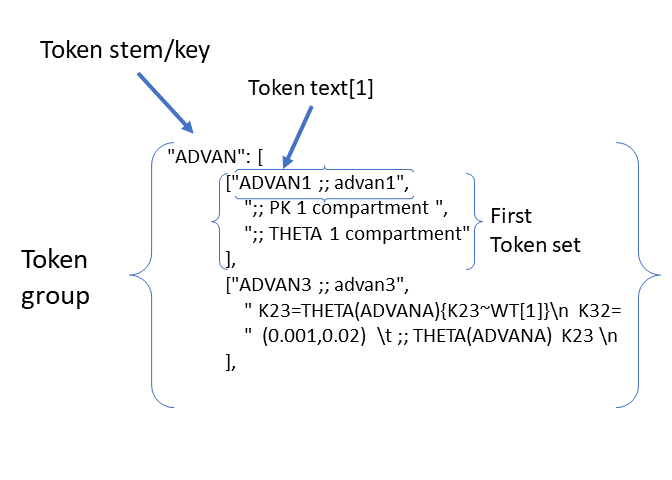
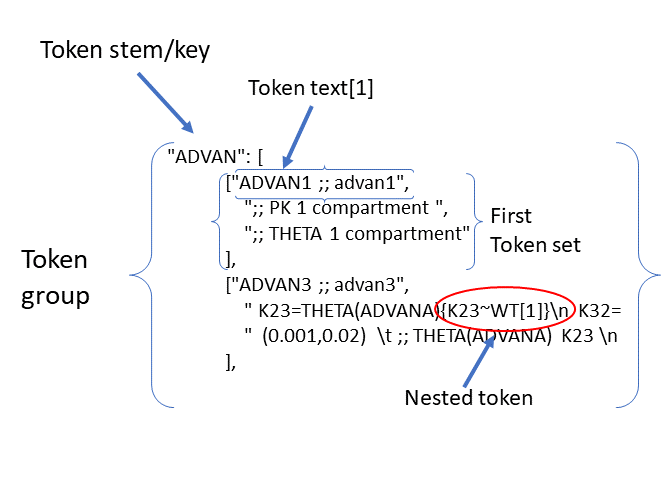
Doc 23Jun

diff --git a/src/main.py b/src/main.py
@@ -23,8 +23,8 @@ from darwin.options import options
 
 print("\n\n\n\n Example 1, Trivial Exhaustive\n\n\n")
 
-final = run_search("C:\\fda\\pyDarwin\\examples\\Example1\\Example1_template.txt",
-                   "C:\\fda\\pyDarwin\\examples\\Example1\\Example1_tokens.json",
+final = run_search("C:\\fda\\thetasort\\template.txt",
+                   "C:\\fda\\thetasort\\tokens.json",
                    "C:\\fda\\pyDarwin\\examples\\Example1\\Example1_options.json")
  
 with open(os.path.join(options.home_dir, "finalModel.mod"), "w") as final_control:

diff --git a/docs/PKModel1.rst b/docs/PKModel1.rst
@@ -3,15 +3,70 @@
 .. _startpk1:
 
 PK Model 1, trivial exhaustive search
-==============================================
+======================================
+
 This first model is quite simple, the search space consistes of 6 dimensions, each with 2 options. Thus, the total number of candiate models is 
 2^6 = 64 models. As the search space if very small, we'll search by exhaustive search. 
 
+First step:
+
+As is the usual practise in POPPK model selection, the first step will be exploratory data analysis. This serves at least two purposes: To validate the data set 
+and to generate initial hypotheses. We will however, for the purpose of this tutorial, skip this step and assume that we have a "correct" data set and list of 
+hypotheses to be tests. 
+
+The next step for ML model selection is to get a simple model running. The control file for this simple model is given below:
+
+::
+
+    $PROBLEM    2 compartment fitting
+    $INPUT       ID TIME AMT DV WTKG GENDER AGE DROP
+    $DATA      ..\..\datalarge.csv IGNORE=@
+            
+    $SUBROUTINE ADVAN2
+    $ABBR DERIV2=NO
+    $PK      
+    CWTKG = WTKG/70  ;; CENTERED ON ONE 
+    CAGE = AGE/40 
+    TVV2=THETA(2) 
+    V2=TVV2*EXP(ETA(2)) 
+    TVCL= THETA(1)  
+    CL=TVCL*EXP(ETA(1)) 
+    K=CL/V2  
+    TVKA=THETA(3) 
+    KA=TVKA   
+    S2 	= V2/1000  
+    $ERROR     
+    REP = IREP      
+    IPRED =F  
+    IOBS = F*EXP(EPS(1))+EPS(2)
+    Y=IOBS
+    $THETA  ;; must be one THETA per line.
+    (0.001,100)	; THETA(1) CL UNITS =  L/HR
+    (0.001,500) 	; THETA(2) V  UNITS = L
+    (0.001,2) 	; THETA(3) KA UNITS = 1/HR  
+    
+    
+    $OMEGA   	; must be one ETA/line
+    0.2  		; ETA(1) CLEARANCE 
+    0.2  		; ETA(2) VOLUME 
+    
+    $SIGMA   
+    (0.1)
+    (1)
+
+    $EST METHOD=COND INTER MAX = 9999 MSFO=MSF1 
+    $COV UNCOND PRINT=E
+    
+
+
+This text will serve as the starting point for developing the template file
+Note that the relative path to the data file is up two folders. When pyDarwin runs models, it does not copy the data file to the run directory. Rather, 
+typically the data file is in the home directory, and the models are run in home directory/generation/model. Therefore, the relative path to the run directory will 
+be up two levels.
+
 The Template file
 ~~~~~~~~~~~~~~~~~~~~~
-
-Example 1 template file :download:`template file <../examples/Example1/Example1_template.txt>`
-Example 1 searchs a 6 dimensional space. The dimensions corresponds to :ref:`token group <token group>`. 
+The initial simple model can then be editted by adding tokens. This first example will include covariates, residual error and one structural feature. 
 Each token group is identified by a :ref:`token stem <token stem>`, e.g. "V2~WT" for the dimension of the 
 relationship between weight a volume of distribution. Each token group includes 
 2 or more :ref:`token set <token set>`, one for each option in the that dimension, These dimensions are:
@@ -23,7 +78,74 @@ relationship between weight a volume of distribution. Each token group includes
 5. Presence of an absorption lag time - ALAG1 ("ALAG") - Present or not
 6. Residual error model ("RESERR") - additive or combined additive and proportional
 
-Each token set in turn will include (in this case) two :ref:`token key-text pairs<token key-text pair>` (analagous to key-value pairs 
+Covariate effects
+------------------
+
+For the effect of Weight on Volume, we've chosen the :ref:`token stem<token stem>` of "V2~WT". Two tokens will be required for this :ref:`token set<token set>`. The first will be 
+adding the relationship to the definition of TVV2 in the $PK block and the 2nd will be providing an initial estimate in the $THETA block for the estimated 
+THETA. Note that the index for THETA for this feature cannot be defined until the model is constructed. Only then can the number and sequence of the added THETAs be 
+determined. In the token set THETAs will be indexed with text, e.g., THETA(V2~WT). As there will be two tokens in the token set, the first have and index of 1
+and the 2nd an index of 2:
+
+::
+
+     {V2~WT[1]}
+     and
+     {V2~WT[2]} 
+    
+
+note the curly braces, these are required for tokens in the template file. The record in the $PK will have the token appended to it, resulting this text:
+
+
+::
+
+    TVV2=THETA(2){V2~WT[1]}
+    
+Two options for the text to be substituted for {V2~WT[1]} will 
+be defined:
+
+1. ""
+2. "\*CWTKG**THETA(V2~WT)"
+
+The first will have no text in that record, resulting in
+
+::
+
+    TVV2=THETA(2)
+
+
+and the 2nd text being substituted will result in
+
+::
+
+    TVV2=THETA(2)*CWTKG**THETA(V2~WT)
+
+
+The 2nd token for the initial estimate for THETA(V2~WT) wil be similar. The token text options will be:
+
+1. ""
+2. "  (-4,0.8,4) \\t; THETA(V2~WT) POWER volume ~WT "
+
+
+The resulting $THETA block for this initial feature will be:
+
+::
+
+    $THETA  ;; must be one THETA per line.
+    (0.001,100) ; THETA(1) CL UNITS =  L/HR
+    (0.001,500) ; THETA(2) V  UNITS = L
+    (0.001,2)   ; THETA(3) KA UNITS = 1/HR
+
+    {V2~WT[2]}    
+
+Note the use of the escape syntax, "\\t" for a tab. Newlines will be coded simlarly as "\\n". NONMEM comments (text after ";") are permitted. However, the 
+user must be aware of the impact that comments in token text may have on any code that follows. This $THETA block has 3 fixed THETA initial estimates - THETA(1), 
+THETA(2) and THETA(3). These will appear in all control files in the search. These fixed initial estimates are then followed by searched initial estimates. Searched 
+initial estimates may or may not appear, depending on the model specification (:ref:`phenotype<phenotype>`). Searched initial estimates must be placed after all 
+fixed initial estimates. Each initial estimate must be on a separate line and must be surrounded by parentheses. The standard combinations of (lower, initial,upper) 
+are all supported. 
+
+Tokens sets for each feature to be searched will be defined as these :ref:`token key-text pairs<token key-text pair>` (analagous to key-value pairs 
 in JSON, but only text values are permitted)
 
 Each of these dimensions has two options. Therefore the total number of candidate models 
@@ -36,9 +158,21 @@ example, if ALAG1 is to be used in the $PK block, a corresponding initial estima
 this parameter must be provided in the $THETA block. These tokens (collectively called a token set) 
 are then replaced by the corresponding text value in the :ref:`token key-text pair <token key-text pair>`. 
 
+
+Other covariate effects are coded similarly. 
+
+
+Between subject variability
+-----------------------------
+
+
+
+Example 1 template file :download:`template file <../examples/Example1/Example1_template.txt>`
+Example 1 searchs a 6 dimensional space. The dimensions corresponds to :ref:`token group <token group>`. 
+
 Data file path
-~~~~~~~~~~~~~~~
-Typically, the NMTRAN data file will be located in the :ref:`home directory<home directory>`. As the models are run in a directory  two levels down 
+--------------
+Typically, the NMTRAN data file will be located in the :ref:`home directory<home directory>`. As the models are run in a directory two levels down 
 (home directory/generation/model) the path to the data set is typically given as 
 
 ::
@@ -46,8 +180,10 @@ Typically, the NMTRAN data file will be located in the :ref:`home directory<home
     $DATA ..\..\data.csv
 
 
+Final template file
+--------------------
 As the search space is small (and the run time is fast), we'll search by exhaustive search.
-The tokens file for Example 1 is given below.
+The final template file for Example 1 is given below.
 
 ::
 
@@ -59,8 +195,7 @@ The tokens file for Example 1 is given below.
     $ABBR DERIV2=NO
     $PK      
     CWTKG = WTKG/70  ;; CENTERED ON ONE 
-    CAGE = AGE/40
-    ;; thetas out of sequence
+    CAGE = AGE/40 
     TVV2=THETA(2){V2~WT[1]} {V2~GENDER[1]}
     V2=TVV2*EXP(ETA(2)) 
     TVCL= THETA(1) {CL~WT[1]}  
@@ -80,8 +215,8 @@ The tokens file for Example 1 is given below.
     (0.001,500) 	; THETA(2) V  UNITS = L
     (0.001,2) 	; THETA(3) KA UNITS = 1/HR  
     
-    {V2~WT[2]}   ;;; comment ;; comment
-    {V2~GENDER[2]}   ;;; comment ;; comment 
+    {V2~WT[2]}    
+    {V2~GENDER[2]}     
     {CL~WT[2]}  
     {ALAG[2]}
     
@@ -122,7 +257,7 @@ on an search parameter, as in searching for an effect of FED vs FASTED state on 
             ""
             ],
             ["*CWTKG**THETA(V2~WT)",
-                "  (-4,0.8,4) \t; THETA(V2~WT) POWER volume ~WT "
+                "  (-4,0.8,4) \t; THETA(V2~WT) POWER volume~WT "
             ]
         ],
 
@@ -152,8 +287,7 @@ on an search parameter, as in searching for an effect of FED vs FASTED state on 
         ],
         "ALAG": [
             ["",
-                "",
-                ""
+                "" 
             ],
             ["ALAG1 = THETA(ALAG)",
                 "  (0, 0.1,3) \t; THETA(ALAG) ALAG1 "

diff --git a/docs/Required_files.rst b/docs/Required_files.rst
@@ -105,14 +105,13 @@ There are 3 restriction for the parseing of the initial estimates blocks:
 3. Text for **ALL** initial estimates must be in parentheses, e.g., (1), or (0,1) or (0,1,5)
 
 
-
 .. _tokens file:
 
 The Tokens File
 ~~~~~~~~~~~~~~~~~~~
 
 The tokens file provide a dictionary (as a JSON file) of token key-text pairs. The highest level of the dictionary is the :ref:`token group <token group>`. Token groups are 
-defined by a unique :ref:`token stem<token stem>` The token stem also serves as the key in the :ref:`tokenn key-text pairs.<token key-text pair>` The token stem is a text string that corresponds to the token key that appears in the :ref:`template file<template>`. 
+defined by a unique :ref:`token stem<token stem>`. The token stem also serves as the key in the :ref:`tokenn key-text pairs.<token key-text pair>` The token stem is a text string that corresponds to the token key that appears in the :ref:`template file<template>`. 
 The 2nd level in the tokens dictionary are the :ref:`token sets<token set>`. In the template file the tokens are indexed (e.g., ADVAN[1]), as typically multiple token keys will be to be 
 replace by text to create correct syntax. For example, if the search if for 1 compartment (ADVAN1) vs 2 compartment (ADVAN3), for ADVAN3, definitions of K23 and K32 must be provided 
 in the $PK block, and (typically) initial estimates must be provided in the $THETA block. Thus, a set of 3 replacements must be made, one in $SUBS, one in $PK and one in 
@@ -133,28 +132,23 @@ will include the following JSON code:
 
 Note that whether the current model is one compartment or two is selected by the search algorithm and provided in the model :ref:`phenotype<phenotype>`.
 
-A diagram of the token structure is given in 
+A diagram of the token structure is given below
 
 
 .. figure:: tokens.png
+
+Note the "nested token" - a token ("{K23~WT[1]}") within a token, circled in red. One level of nested tokens is permited. pyDarwin will first substitute the full text 
+into the template, then scans the resulting text again. This nested token will then be found and the text from the {K23~WT[1]} token set will be substituted. 
 
 
 Several notes:
 
 
-1. The :ref:`token stem<token stem>` is "ADVAN" and identifies the :ref:`token group<token group>`. This stem must be unique in the tokens groups. The token stem also 
-serves as the token key in the :ref:`token key-value pairs<token key-text pair>`. In this example, three replacements 
-must be made in the template, in $SUBS, $PK and $THETA. In the template file, these will be coded as {ADVAN[1]}, {ADVAN[2]} and {ADVAN[3]}. Note the curly braces, 
-these are required in the template, but not the tokens file. The indices correspond to the indices 
-of the :ref:`tokens<token>` in the token set. In this case there are 3 :ref:`token key-value pairs<token key-text pair>` in each token set. There may be additional unused tokens (as may be 
-the case with :ref:`nest tokens<nested tokens>`, but each token in the template file must have a corresponding token key-value pair in the tokens file. 
-2 token sets in this token group, one coding for ADVAN1 and one coding for ADVAN3.
-
-1. New lines in JSON files are ignored. To code a new line, enter the newline escape character "\\n". Similarly, a tab is coded as "\\t".
-   
-2. Comments are not permitted in JSON files. However comments for the generated NMTRAN control file maybe included with the usual syntax ";".
-   
-3. All other JSON (`JSON<https://www.json.org/json-en.html>_`) rules apply.
+1. The :ref:`token stem<token stem>` is "ADVAN" and identifies the :ref:`token group<token group>`. This stem must be unique in the tokens groups. The token stem also  serves as the token key in the :ref:`token key-value pairs<token key-text pair>`. In this example, three replacements must be made in the template, in $SUBS, $PK and $THETA. In the template file, these will be coded as {ADVAN[1]}, {ADVAN[2]} and {ADVAN[3]}. Note the curly braces, these are required in the template, but not the tokens file. The indices correspond to the indices of the :ref:`tokens<token>` in the token set. In this case there are 3 :ref:`token key-value pairs<token key-text pair>` in each token set. There may be additional unused tokens (as may be the case with :ref:`nest tokens<nested tokens>`, but each token in the template file must have a corresponding token key-value pair in the tokens file. 2 token sets in this token group, one coding for ADVAN1 and one coding for ADVAN3.
+2. New lines in JSON files are ignored. To code a new line, enter the newline escape character "\\n". Similarly, a tab is coded as "\\t".
+3. Comments are not permitted in JSON files. However comments for the generated NMTRAN control file maybe included with the usual syntax ";".
+4. There is no dependency on the sequence of token sets in the file, any order is acceptable, they need not be in the same order as they appear in the :ref:`template file.<The template file>`
+5. All other JSON (`JSON <https://www.json.org/json-en.html>`_ ) rules apply.
 
 
    

diff --git a/docs/Glossary.rst b/docs/Glossary.rst
@@ -152,11 +152,11 @@ would be required in the tokens files. Exactly one :ref:`token set <token set>` 
 be selected (by the search algorithm) for substitution into the template file. If the first 
 token set is selected, and this token set contains these token key-text pairs:
 
-ALAG[1] -> "ALAGA1=THETA(ALAG)"
+ALAG[1] -> "ALAG1=THETA(ALAG)"
 
 ALAG[2] -> "(0,1) ;; initial estimate for ALAG1"
 
-The text "ALAG[1]" in the template file would be replaced by "ALAGA1=THETA(ALAG)" and 
+The text "ALAG[1]" in the template file would be replaced by "ALAG1=THETA(ALAG)" and 
 the "ALAG[2]" text in the template would be replace by "(0,1) ;; initial estimate for ALAG1". This would then 
 result in syntactically correct NMTRAN code.
 
